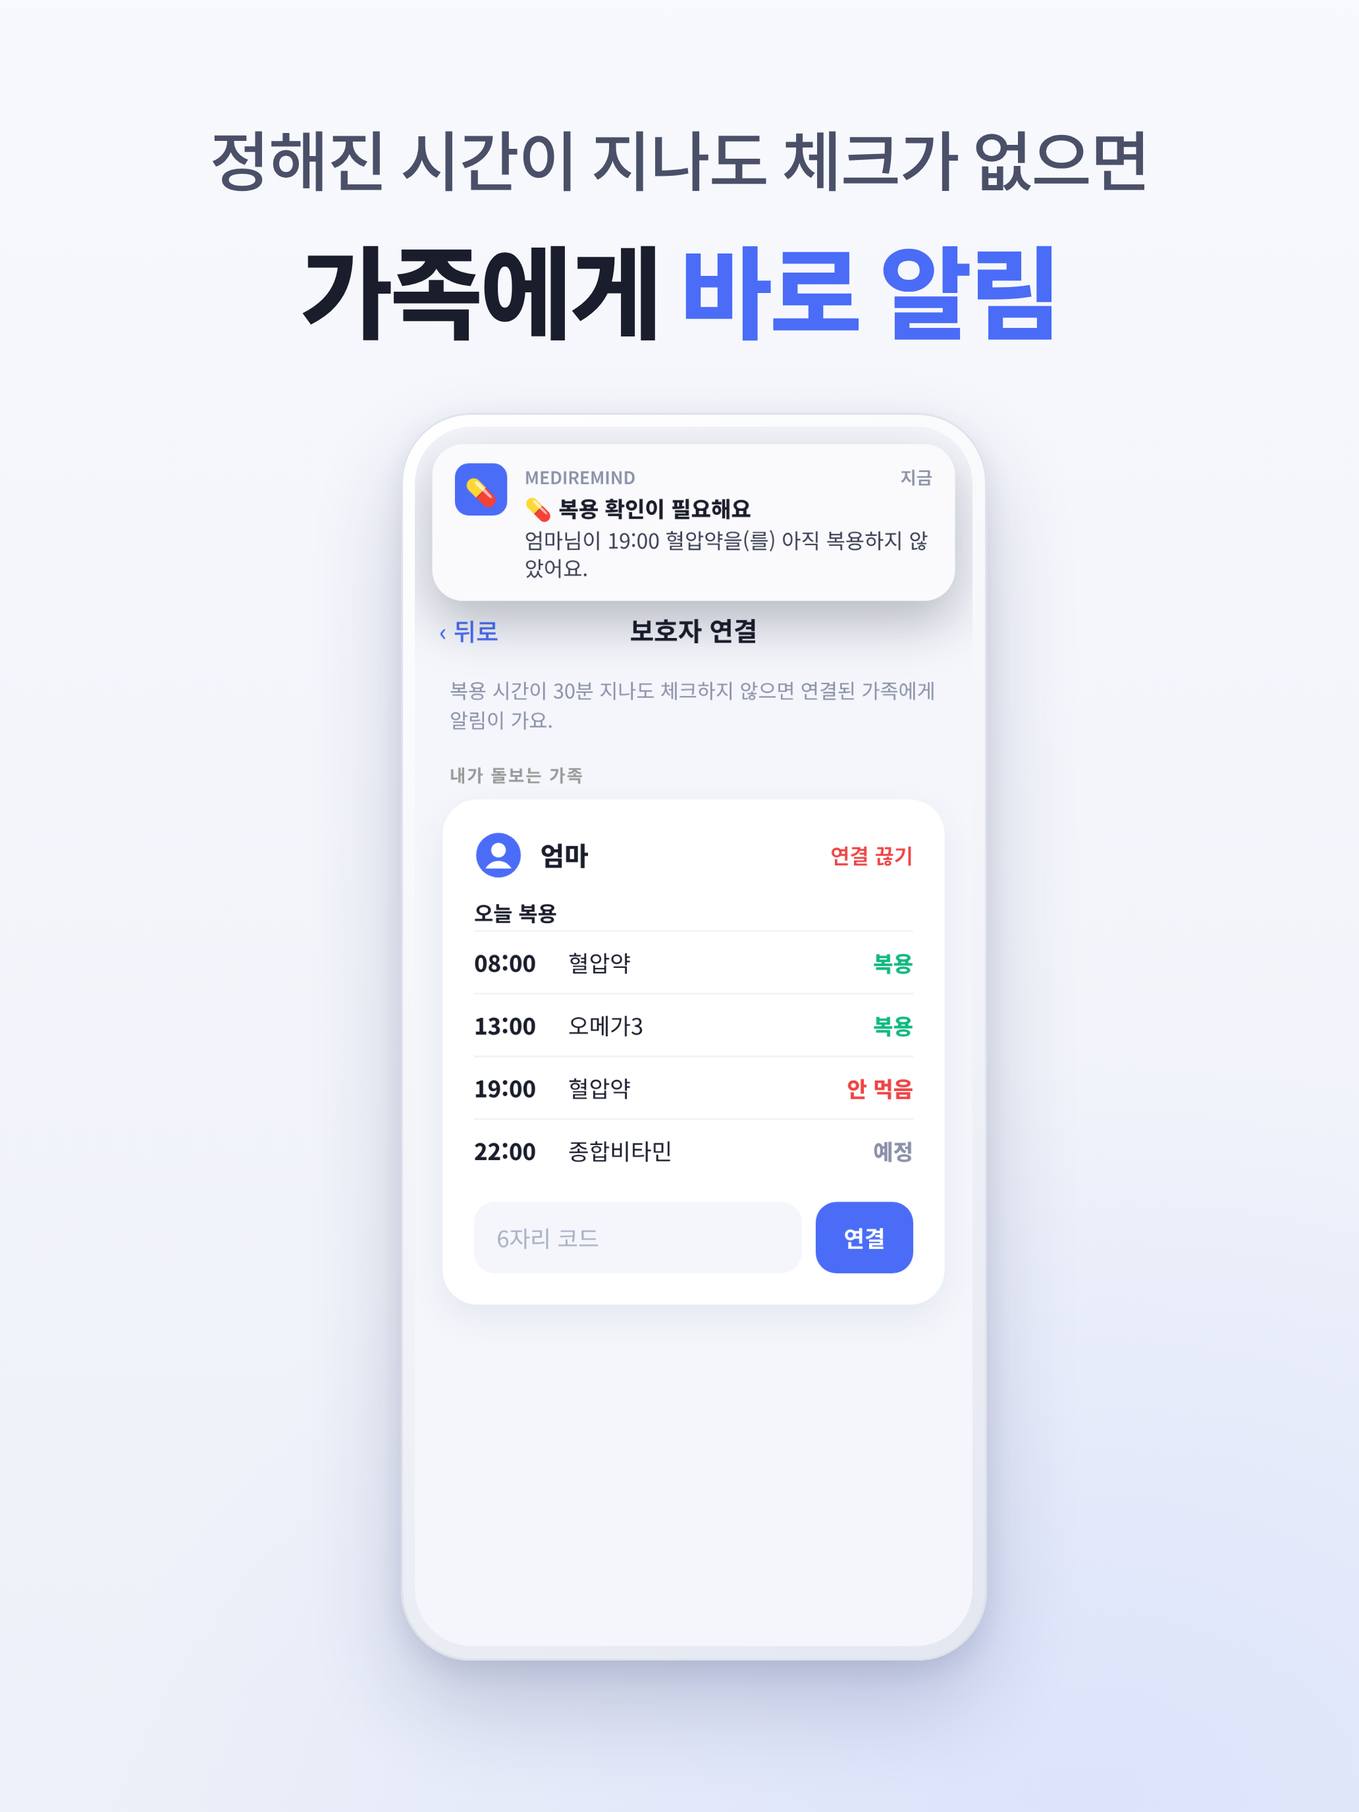
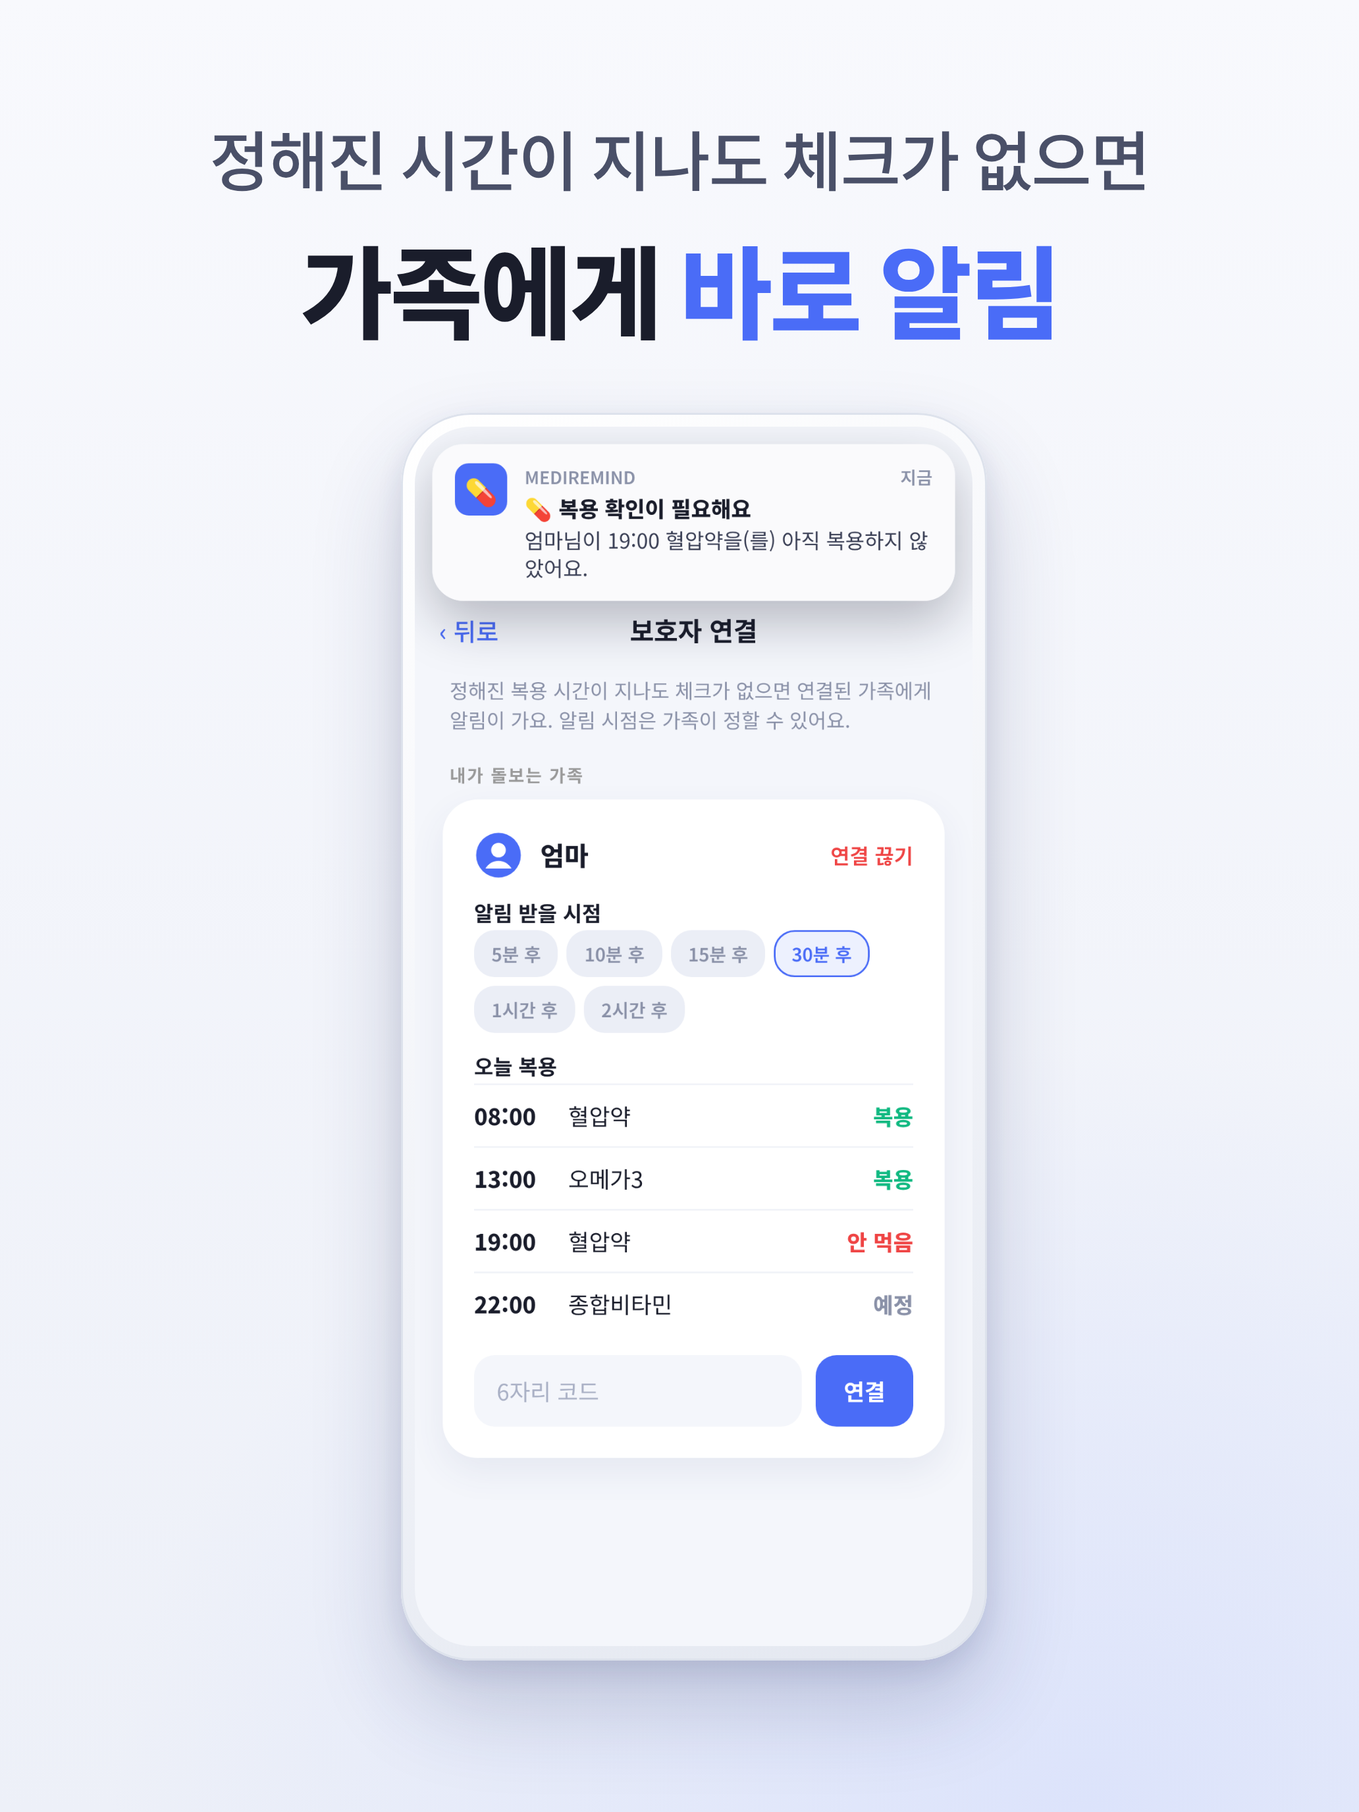
Let guardians choose when they're alerted about a missed dose
Each guardian picks 5, 10, 15 or 30 minutes, 1 or 2 hours (default 30) per
family member. The delay lives on guardian_links (set via set_alert_delay),
and sent alerts are tracked per guardian in slot_alerts so everyone is told
once, at their own time; doses from before a link existed are skipped. The
family alerts screen shows the picker and uses the delay for 'missed', and
the intro, privacy policy, setup doc and screenshot mockup no longer say
30 minutes.

Claude-Session: https://claude.ai/code/session_01FsfgzBCkXCq3RhxTQFRGQP

diff --git a/MediRemind/src/screens/GuardianScreen.tsx b/MediRemind/src/screens/GuardianScreen.tsx
@@ -29,12 +29,13 @@ import {
   getLinks,
   patientToday,
   redeemInvite,
+  setAlertDelay,
   setDisplayName,
   unlink,
   type Links,
   type Person,
 } from '../guardian/guardian';
-import { slotState, type DoseSlot, type SlotState } from '../guardian/slots';
+import { ALERT_DELAYS, slotState, type DoseSlot, type SlotState } from '../guardian/slots';
 
 export default function GuardianScreen() {
   const { t } = useI18n();
@@ -123,6 +124,18 @@ export default function GuardianScreen() {
     } finally {
       setBusy(null);
     }
+  };
+
+  const onDelay = (patientId: string, minutes: number) => {
+    // Show the choice right away; put it back if the server refuses.
+    const previous = links;
+    setLinks((l) =>
+      l && { ...l, patients: l.patients.map((p) => (p.id === patientId ? { ...p, alertDelay: minutes } : p)) }
+    );
+    setAlertDelay(patientId, minutes).catch((e) => {
+      setLinks(previous);
+      fail(e);
+    });
   };
 
   const confirmUnlink = (person: Person, patientId: string, guardianId: string) => {
@@ -215,7 +228,8 @@ export default function GuardianScreen() {
           links.patients.map((p) => (
             <View key={p.id} style={styles.patient}>
               <PersonRow person={p} onUnlink={() => confirmUnlink(p, p.id, links.me)} />
-              <TodayList slots={today[p.id] ?? []} />
+              <DelayPicker value={p.alertDelay} onChange={(m) => onDelay(p.id, m)} />
+              <TodayList slots={today[p.id] ?? []} delay={p.alertDelay} />
             </View>
           ))
         ) : (
@@ -258,7 +272,32 @@ function PersonRow({ person, onUnlink }: { person: Person; onUnlink: () => void 
   );
 }
 
-function TodayList({ slots }: { slots: DoseSlot[] }) {
+function DelayPicker({ value, onChange }: { value: number; onChange: (m: number) => void }) {
+  const { t } = useI18n();
+  const styles = useThemedStyles(makeStyles);
+  return (
+    <View>
+      <Text style={styles.label}>{t('guardian.delayLabel')}</Text>
+      <View style={styles.delayRow}>
+        {ALERT_DELAYS.map((m) => (
+          <TouchableOpacity
+            key={m}
+            style={[styles.delayChip, value === m && styles.delayChipOn]}
+            onPress={() => onChange(m)}
+            accessibilityRole="button"
+            accessibilityState={{ selected: value === m }}
+          >
+            <Text style={[styles.delayText, value === m && styles.delayTextOn]}>
+              {m < 60 ? t('guardian.delayMin', { n: m }) : t('guardian.delayHour', { n: m / 60 })}
+            </Text>
+          </TouchableOpacity>
+        ))}
+      </View>
+    </View>
+  );
+}
+
+function TodayList({ slots, delay }: { slots: DoseSlot[]; delay: number }) {
   const { t } = useI18n();
   const { colors } = useTheme();
   const styles = useThemedStyles(makeStyles);
@@ -274,7 +313,7 @@ function TodayList({ slots }: { slots: DoseSlot[] }) {
     <View>
       <Text style={styles.label}>{t('guardian.today')}</Text>
       {slots.map((s) => {
-        const state = slotState(s, now);
+        const state = slotState(s, now, delay);
         const d = new Date(s.due_at);
         const time = `${String(d.getHours()).padStart(2, '0')}:${String(d.getMinutes()).padStart(2, '0')}`;
         return (
@@ -365,6 +404,18 @@ const makeStyles = (c: ThemeColors, scheme: Scheme) =>
     slotTime: { width: 48, fontSize: 14, fontWeight: '700', color: c.text },
     slotName: { flex: 1, fontSize: 14, color: c.text },
     slotState: { fontSize: 13, fontWeight: '800' },
+    delayRow: { flexDirection: 'row', flexWrap: 'wrap', gap: 6 },
+    delayChip: {
+      paddingVertical: 7,
+      paddingHorizontal: 12,
+      borderRadius: 16,
+      backgroundColor: c.surfaceMuted,
+      borderWidth: 1.5,
+      borderColor: 'transparent',
+    },
+    delayChipOn: { backgroundColor: c.brandSoft, borderColor: c.brand },
+    delayText: { fontSize: 13, fontWeight: '600', color: c.textMuted },
+    delayTextOn: { color: c.brand },
     deleteBtn: { alignItems: 'center', paddingVertical: 12 },
     deleteText: { fontSize: 13, color: c.danger },
   });

diff --git a/MediRemind/mockup.html b/MediRemind/mockup.html
@@ -245,6 +245,9 @@
   .gd-st.next { color:#8A91A8; }
   .gd-nav { margin-top:96px; }
   .gd-pc { width:28px; height:28px; fill:#4A6CF7; flex-shrink:0; }
+  .gd-delays { display:flex; flex-wrap:wrap; gap:5px; }
+  .gd-delays span { padding:5px 9px; border-radius:12px; background:#EBEEF6; font-size:10.5px; font-weight:600; color:#8A91A8; border:1.2px solid transparent; }
+  .gd-delays span.on { background:#EDF1FE; border-color:#4A6CF7; color:#4A6CF7; }
   .gd-unlink { font-size:12px; color:#EF4444; font-weight:600; }
   .gd-lbl { font-size:12px; font-weight:700; color:#1A1D2B; margin:2px 0 2px; }
   .gd-input { display:flex; gap:8px; margin-top:12px; }
@@ -630,11 +633,13 @@
     </div>
     <div class="navbar gd-nav"><span class="back">‹ 뒤로</span><span class="nt">보호자 연결</span><span></span></div>
     <div class="body">
-      <div class="gd-intro">복용 시간이 30분 지나도 체크하지 않으면 연결된 가족에게 알림이 가요.</div>
+      <div class="gd-intro">정해진 복용 시간이 지나도 체크가 없으면 연결된 가족에게 알림이 가요. 알림 시점은 가족이 정할 수 있어요.</div>
       <div class="set-lbl">내가 돌보는 가족</div>
       <div class="card">
         <div class="gd-person"><svg class="gd-pc" viewBox="0 0 24 24"><circle cx="12" cy="12" r="11"/><circle cx="12" cy="9.5" r="3.6" fill="#fff"/><path d="M5.6 18.6c1.3-2.4 3.7-3.8 6.4-3.8s5.1 1.4 6.4 3.8" fill="#fff"/></svg><div class="gd-name">엄마</div><span class="gd-unlink">연결 끊기</span></div>
-        <div class="gd-lbl">오늘 복용</div>
+        <div class="gd-lbl">알림 받을 시점</div>
+        <div class="gd-delays"><span>5분 후</span><span>10분 후</span><span>15분 후</span><span class="on">30분 후</span><span>1시간 후</span><span>2시간 후</span></div>
+        <div class="gd-lbl" style="margin-top:10px">오늘 복용</div>
         <div class="gd-row"><span class="gd-time">08:00</span><span class="gd-med">혈압약</span><span class="gd-st ok">복용</span></div>
         <div class="gd-row"><span class="gd-time">13:00</span><span class="gd-med">오메가3</span><span class="gd-st ok">복용</span></div>
         <div class="gd-row"><span class="gd-time">19:00</span><span class="gd-med">혈압약</span><span class="gd-st miss">안 먹음</span></div>

diff --git a/MediRemind/src/guardian/guardian.ts b/MediRemind/src/guardian/guardian.ts
@@ -19,7 +19,7 @@ import { getActiveLanguage } from '../i18n/core';
 import { dateKey, parseDateKey } from '../lib/schedule';
 import { ensurePermission } from '../notifications/notifications';
 import { GUARDIAN_CONFIG, guardianAvailable } from './config';
-import { buildSlots, type DoseSlot } from './slots';
+import { buildSlots, DEFAULT_ALERT_DELAY, type DoseSlot } from './slots';
 
 const KEYS = {
   /** Set once an account exists, so the client isn't even created before. */
@@ -34,12 +34,17 @@ export interface Person {
   name: string;
 }
 
+export interface Patient extends Person {
+  /** Minutes after a dose's time I'm alerted about it. */
+  alertDelay: number;
+}
+
 export interface Links {
   me: string;
   /** People who watch my doses. */
   guardians: Person[];
   /** People whose doses I watch. */
-  patients: Person[];
+  patients: Patient[];
 }
 
 let client: SupabaseClient | null = null;
@@ -208,7 +213,7 @@ export async function getLinks(): Promise<Links | null> {
   if (!(await isActive())) return null;
   const me = await ensureSession();
   const sb = getClient();
-  const { data: links, error } = await sb.from('guardian_links').select('patient_id, guardian_id');
+  const { data: links, error } = await sb.from('guardian_links').select('patient_id, guardian_id, alert_delay_min');
   if (error) throw error;
   const ids = [...new Set((links ?? []).flatMap((l) => [l.patient_id, l.guardian_id]))].filter(
     (id) => id !== me
@@ -226,8 +231,16 @@ export async function getLinks(): Promise<Links | null> {
   return {
     me,
     guardians: (links ?? []).filter((l) => l.patient_id === me).map((l) => person(l.guardian_id)),
-    patients: (links ?? []).filter((l) => l.guardian_id === me).map((l) => person(l.patient_id)),
+    patients: (links ?? [])
+      .filter((l) => l.guardian_id === me)
+      .map((l) => ({ ...person(l.patient_id), alertDelay: l.alert_delay_min ?? DEFAULT_ALERT_DELAY })),
   };
+}
+
+/** How late a dose may be before I'm alerted about this family member. */
+export async function setAlertDelay(patientId: string, minutes: number): Promise<void> {
+  const { error } = await getClient().rpc('set_alert_delay', { p_patient: patientId, p_minutes: minutes });
+  if (error) throw error;
 }
 
 export async function unlink(patientId: string, guardianId: string): Promise<void> {

diff --git a/MediRemind/legal/privacy.html b/MediRemind/legal/privacy.html
@@ -71,7 +71,7 @@
       <li>복용을 공유하는 사용자: 약 이름, 오늘부터 7일간의 복용 예정 시각, 복용 여부, 가족에게 보일 이름,
         시간대가 서버에 저장되어 <strong>연결된 가족에게만</strong> 보입니다.</li>
       <li>가족(보호자): 놓친 약 알림을 받기 위한 푸시 알림 토큰과 언어 설정이 저장됩니다.</li>
-      <li>복용 시간이 30분 지나도 체크되지 않으면 서버가 Expo 푸시 서비스를 통해 가족에게 알림을 보냅니다.</li>
+      <li>복용 시간이 지나 가족이 정한 시간(5분~2시간, 기본 30분)이 되도록 체크되지 않으면, 서버가 Expo 푸시 서비스를 통해 그 가족에게 알림을 보냅니다.</li>
       <li>서버의 복용 기록은 14일이 지나면 자동 삭제됩니다. 앱의 "연결 해제 및 서버 데이터 삭제"를 누르면
         계정과 연결, 공유된 기록이 즉시 모두 삭제됩니다.</li>
       <li>서버는 Supabase(데이터 저장), 알림 전송은 Expo가 처리하며, 이 목적 외에는 사용되지 않습니다.</li>
@@ -133,7 +133,7 @@
       <li>If you share your doses: medicine names, dose times for the next 7 days, whether each was taken,
         the name you choose to show, and your time zone are stored and visible <strong>only to linked family</strong>.</li>
       <li>If you watch a family member: your push token and language are stored to send missed-dose alerts.</li>
-      <li>When a dose is still unchecked 30 minutes after its time, the server notifies linked family through Expo's push service.</li>
+      <li>When a dose is still unchecked once the delay each family member chose has passed (5 minutes to 2 hours, 30 minutes by default), the server notifies them through Expo's push service.</li>
       <li>Shared doses are deleted after 14 days. "Unlink all &amp; delete server data" in the app deletes the account,
         links, and shared doses immediately.</li>
       <li>Data is stored by Supabase and alerts are delivered by Expo, solely for this feature.</li>

diff --git a/MediRemind/src/i18n/strings.ts b/MediRemind/src/i18n/strings.ts
@@ -219,9 +219,12 @@ export const STRINGS: Record<string, Entry> = {
   // ── Guardian ──────────────────────────────────────────────────────────
   'nav.guardian': { ko: '보호자 연결', en: 'Family Alerts' },
   'guardian.intro': {
-    ko: '복용 시간이 30분 지나도 체크하지 않으면 연결된 가족에게 알림이 가요.',
-    en: 'If a dose is still unchecked 30 minutes after its time, your linked family gets a notification.',
+    ko: '정해진 복용 시간이 지나도 체크가 없으면 연결된 가족에게 알림이 가요. 알림 시점은 가족이 정할 수 있어요.',
+    en: 'If a dose is still unchecked after its time, your linked family gets a notification. They choose how soon.',
   },
+  'guardian.delayLabel': { ko: '알림 받을 시점', en: 'Alert me after' },
+  'guardian.delayMin': { ko: '{n}분 후', en: '{n} min' },
+  'guardian.delayHour': { ko: '{n}시간 후', en: '{n} hr' },
   'guardian.myName': { ko: '가족에게 보일 내 이름', en: 'Your name shown to family' },
   'guardian.myNamePlaceholder': { ko: '예: 엄마, 아빠, 김영희', en: 'e.g. Mom, Dad, Alex' },
   'guardian.save': { ko: '저장', en: 'Save' },

diff --git a/MediRemind/src/guardian/slots.ts b/MediRemind/src/guardian/slots.ts
@@ -53,12 +53,18 @@ export function buildSlots(
 
 export type SlotState = 'taken' | 'upcoming' | 'late' | 'missed';
 
-/** Mirrors the server: a dose is reported missed 30 minutes after it was due. */
-export const MISSED_AFTER_MIN = 30;
+/** Minutes after a dose's time a guardian can choose to be alerted. */
+export const ALERT_DELAYS = [5, 10, 15, 30, 60, 120] as const;
+export const DEFAULT_ALERT_DELAY = 30;
 
-export function slotState(slot: Pick<DoseSlot, 'due_at' | 'taken_at'>, now: Date): SlotState {
+/** Mirrors the server: a dose counts as missed once the guardian's delay has passed. */
+export function slotState(
+  slot: Pick<DoseSlot, 'due_at' | 'taken_at'>,
+  now: Date,
+  delayMin: number = DEFAULT_ALERT_DELAY
+): SlotState {
   if (slot.taken_at) return 'taken';
   const overdueMin = (now.getTime() - new Date(slot.due_at).getTime()) / 60000;
   if (overdueMin < 0) return 'upcoming';
-  return overdueMin < MISSED_AFTER_MIN ? 'late' : 'missed';
+  return overdueMin < delayMin ? 'late' : 'missed';
 }

diff --git a/MediRemind/src/i18n/locales/ja.ts b/MediRemind/src/i18n/locales/ja.ts
@@ -144,7 +144,10 @@ const ja: Record<string, string> = {
   'settings.guardian': '家族への通知',
   'settings.guardianSub': '飲み忘れたら家族にお知らせ',
   'nav.guardian': '家族への通知',
-  'guardian.intro': '服薬時間を30分過ぎてもチェックがない場合、つながっている家族に通知が届きます。',
+  'guardian.intro': '服薬時間を過ぎてもチェックがない場合、つながっている家族に通知が届きます。通知のタイミングは家族が選べます。',
+  'guardian.delayLabel': '通知のタイミング',
+  'guardian.delayMin': '{n}分後',
+  'guardian.delayHour': '{n}時間後',
   'guardian.myName': '家族に表示される名前',
   'guardian.myNamePlaceholder': '例：お母さん、お父さん、山田花子',
   'guardian.save': '保存',

diff --git a/MediRemind/src/i18n/locales/de.ts b/MediRemind/src/i18n/locales/de.ts
@@ -144,7 +144,10 @@ const de: Record<string, string> = {
   'settings.guardian': 'Familien-Alarm',
   'settings.guardianSub': 'Familie benachrichtigen, wenn eine Einnahme verpasst wird',
   'nav.guardian': 'Familien-Alarm',
-  'guardian.intro': 'Ist eine Einnahme 30 Minuten nach der geplanten Zeit noch nicht abgehakt, erhält deine verbundene Familie eine Mitteilung.',
+  'guardian.intro': 'Wird eine Einnahme nach der geplanten Zeit nicht abgehakt, erhält deine verbundene Familie eine Mitteilung. Sie wählt selbst, wann.',
+  'guardian.delayLabel': 'Benachrichtigen nach',
+  'guardian.delayMin': '{n} Min.',
+  'guardian.delayHour': '{n} Std.',
   'guardian.myName': 'Dein Name für die Familie',
   'guardian.myNamePlaceholder': 'z. B. Mama, Papa, Anna',
   'guardian.save': 'Speichern',

diff --git a/MediRemind/src/i18n/locales/fr.ts b/MediRemind/src/i18n/locales/fr.ts
@@ -144,7 +144,10 @@ const fr: Record<string, string> = {
   'settings.guardian': 'Alertes famille',
   'settings.guardianSub': 'Prévenir la famille en cas de prise oubliée',
   'nav.guardian': 'Alertes famille',
-  'guardian.intro': "Si une prise n'est toujours pas cochée 30 minutes après l'heure prévue, votre famille liée reçoit une notification.",
+  'guardian.intro': "Si une prise n'est pas cochée après l'heure prévue, vos proches liés sont prévenus. Ils choisissent quand.",
+  'guardian.delayLabel': 'Me prévenir après',
+  'guardian.delayMin': '{n} min',
+  'guardian.delayHour': '{n} h',
   'guardian.myName': 'Votre nom affiché pour la famille',
   'guardian.myNamePlaceholder': 'ex. : Maman, Papa, Claire',
   'guardian.save': 'Enregistrer',

diff --git a/MediRemind/src/i18n/locales/es.ts b/MediRemind/src/i18n/locales/es.ts
@@ -144,7 +144,10 @@ const es: Record<string, string> = {
   'settings.guardian': 'Avisos a la familia',
   'settings.guardianSub': 'Avisa a tu familia si olvidas una dosis',
   'nav.guardian': 'Avisos a la familia',
-  'guardian.intro': 'Si una dosis sigue sin marcar 30 minutos después de su hora, tus familiares vinculados recibirán un aviso.',
+  'guardian.intro': 'Si una dosis sigue sin marcar después de su hora, tus familiares vinculados reciben un aviso. Ellos eligen cuándo.',
+  'guardian.delayLabel': 'Avisarme tras',
+  'guardian.delayMin': '{n} min',
+  'guardian.delayHour': '{n} h',
   'guardian.myName': 'Tu nombre para la familia',
   'guardian.myNamePlaceholder': 'Ej.: Mamá, Papá, Ana',
   'guardian.save': 'Guardar',

diff --git a/MediRemind/src/i18n/locales/zh-Hant.ts b/MediRemind/src/i18n/locales/zh-Hant.ts
@@ -144,7 +144,10 @@ const zhHant: Record<string, string> = {
   'settings.guardian': '家人提醒',
   'settings.guardianSub': '忘記吃藥時通知家人',
   'nav.guardian': '家人提醒',
-  'guardian.intro': '如果過了服藥時間 30 分鐘還沒打勾，已連結的家人會收到通知。',
+  'guardian.intro': '超過服藥時間還沒打勾時，已連結的家人會收到通知。通知時間可由家人設定。',
+  'guardian.delayLabel': '通知時間',
+  'guardian.delayMin': '{n}分鐘後',
+  'guardian.delayHour': '{n}小時後',
   'guardian.myName': '家人看到的我的名字',
   'guardian.myNamePlaceholder': '例如：媽媽、爸爸、王小美',
   'guardian.save': '儲存',

diff --git a/MediRemind/src/i18n/locales/zh-Hans.ts b/MediRemind/src/i18n/locales/zh-Hans.ts
@@ -144,7 +144,10 @@ const zhHans: Record<string, string> = {
   'settings.guardian': '家人提醒',
   'settings.guardianSub': '漏服时通知家人',
   'nav.guardian': '家人提醒',
-  'guardian.intro': '如果过了服药时间30分钟仍未打勾，已关联的家人会收到通知。',
+  'guardian.intro': '超过服药时间仍未打卡时，已关联的家人会收到通知。通知时间可由家人设置。',
+  'guardian.delayLabel': '通知时间',
+  'guardian.delayMin': '{n}分钟后',
+  'guardian.delayHour': '{n}小时后',
   'guardian.myName': '家人看到的我的名字',
   'guardian.myNamePlaceholder': '例如：妈妈、爸爸、张丽',
   'guardian.save': '保存',
